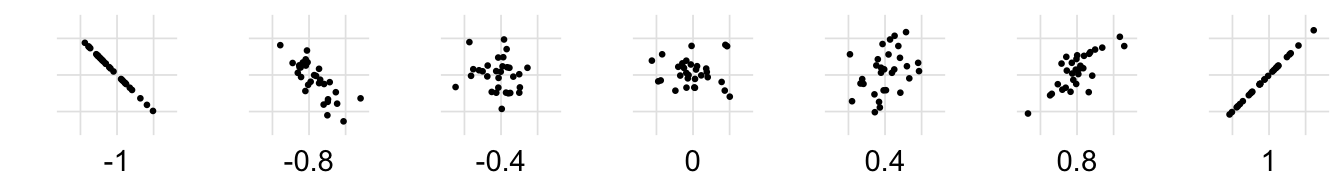
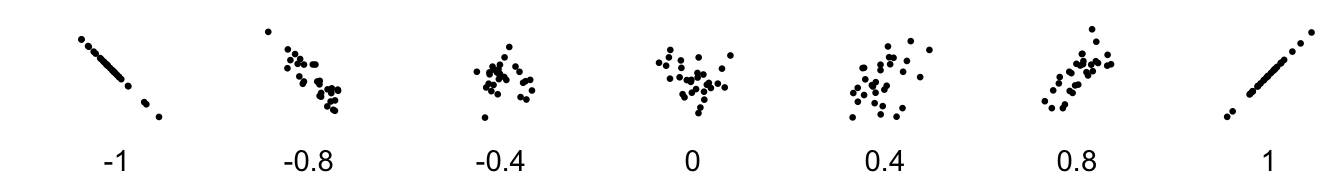
Updated figure.

diff --git a/docs/correlation.html b/docs/correlation.html
@@ -249,7 +249,7 @@ pre > code.sourceCode > span > a:first-child::before { text-decoration: underlin
 <span id="cb1-8"><a href="#cb1-8" aria-hidden="true" tabindex="-1"></a>    </span>
 <span id="cb1-9"><a href="#cb1-9" aria-hidden="true" tabindex="-1"></a>    plots[[<span class="fu">length</span>(plots) <span class="sc">+</span> <span class="dv">1</span>]] <span class="ot">&lt;-</span> <span class="fu">ggplot</span>(df, <span class="fu">aes</span>(<span class="at">x =</span> V1, <span class="at">y =</span> V2)) <span class="sc">+</span> </span>
 <span id="cb1-10"><a href="#cb1-10" aria-hidden="true" tabindex="-1"></a>        <span class="fu">geom_point</span>(<span class="at">size =</span> <span class="fl">0.5</span>) <span class="sc">+</span></span>
-<span id="cb1-11"><a href="#cb1-11" aria-hidden="true" tabindex="-1"></a>        <span class="fu">theme_vs</span>() <span class="sc">+</span></span>
+<span id="cb1-11"><a href="#cb1-11" aria-hidden="true" tabindex="-1"></a>        <span class="fu">theme_minimal</span>() <span class="sc">+</span></span>
 <span id="cb1-12"><a href="#cb1-12" aria-hidden="true" tabindex="-1"></a>        <span class="fu">theme</span>(<span class="at">axis.text =</span> <span class="fu">element_blank</span>(), <span class="at">panel.grid =</span> <span class="fu">element_blank</span>()) <span class="sc">+</span></span>
 <span id="cb1-13"><a href="#cb1-13" aria-hidden="true" tabindex="-1"></a>        <span class="fu">xlab</span>(rho) <span class="sc">+</span> <span class="fu">ylab</span>(<span class="st">''</span>) <span class="sc">+</span></span>
 <span id="cb1-14"><a href="#cb1-14" aria-hidden="true" tabindex="-1"></a>        <span class="fu">coord_equal</span>() <span class="sc">+</span></span>
